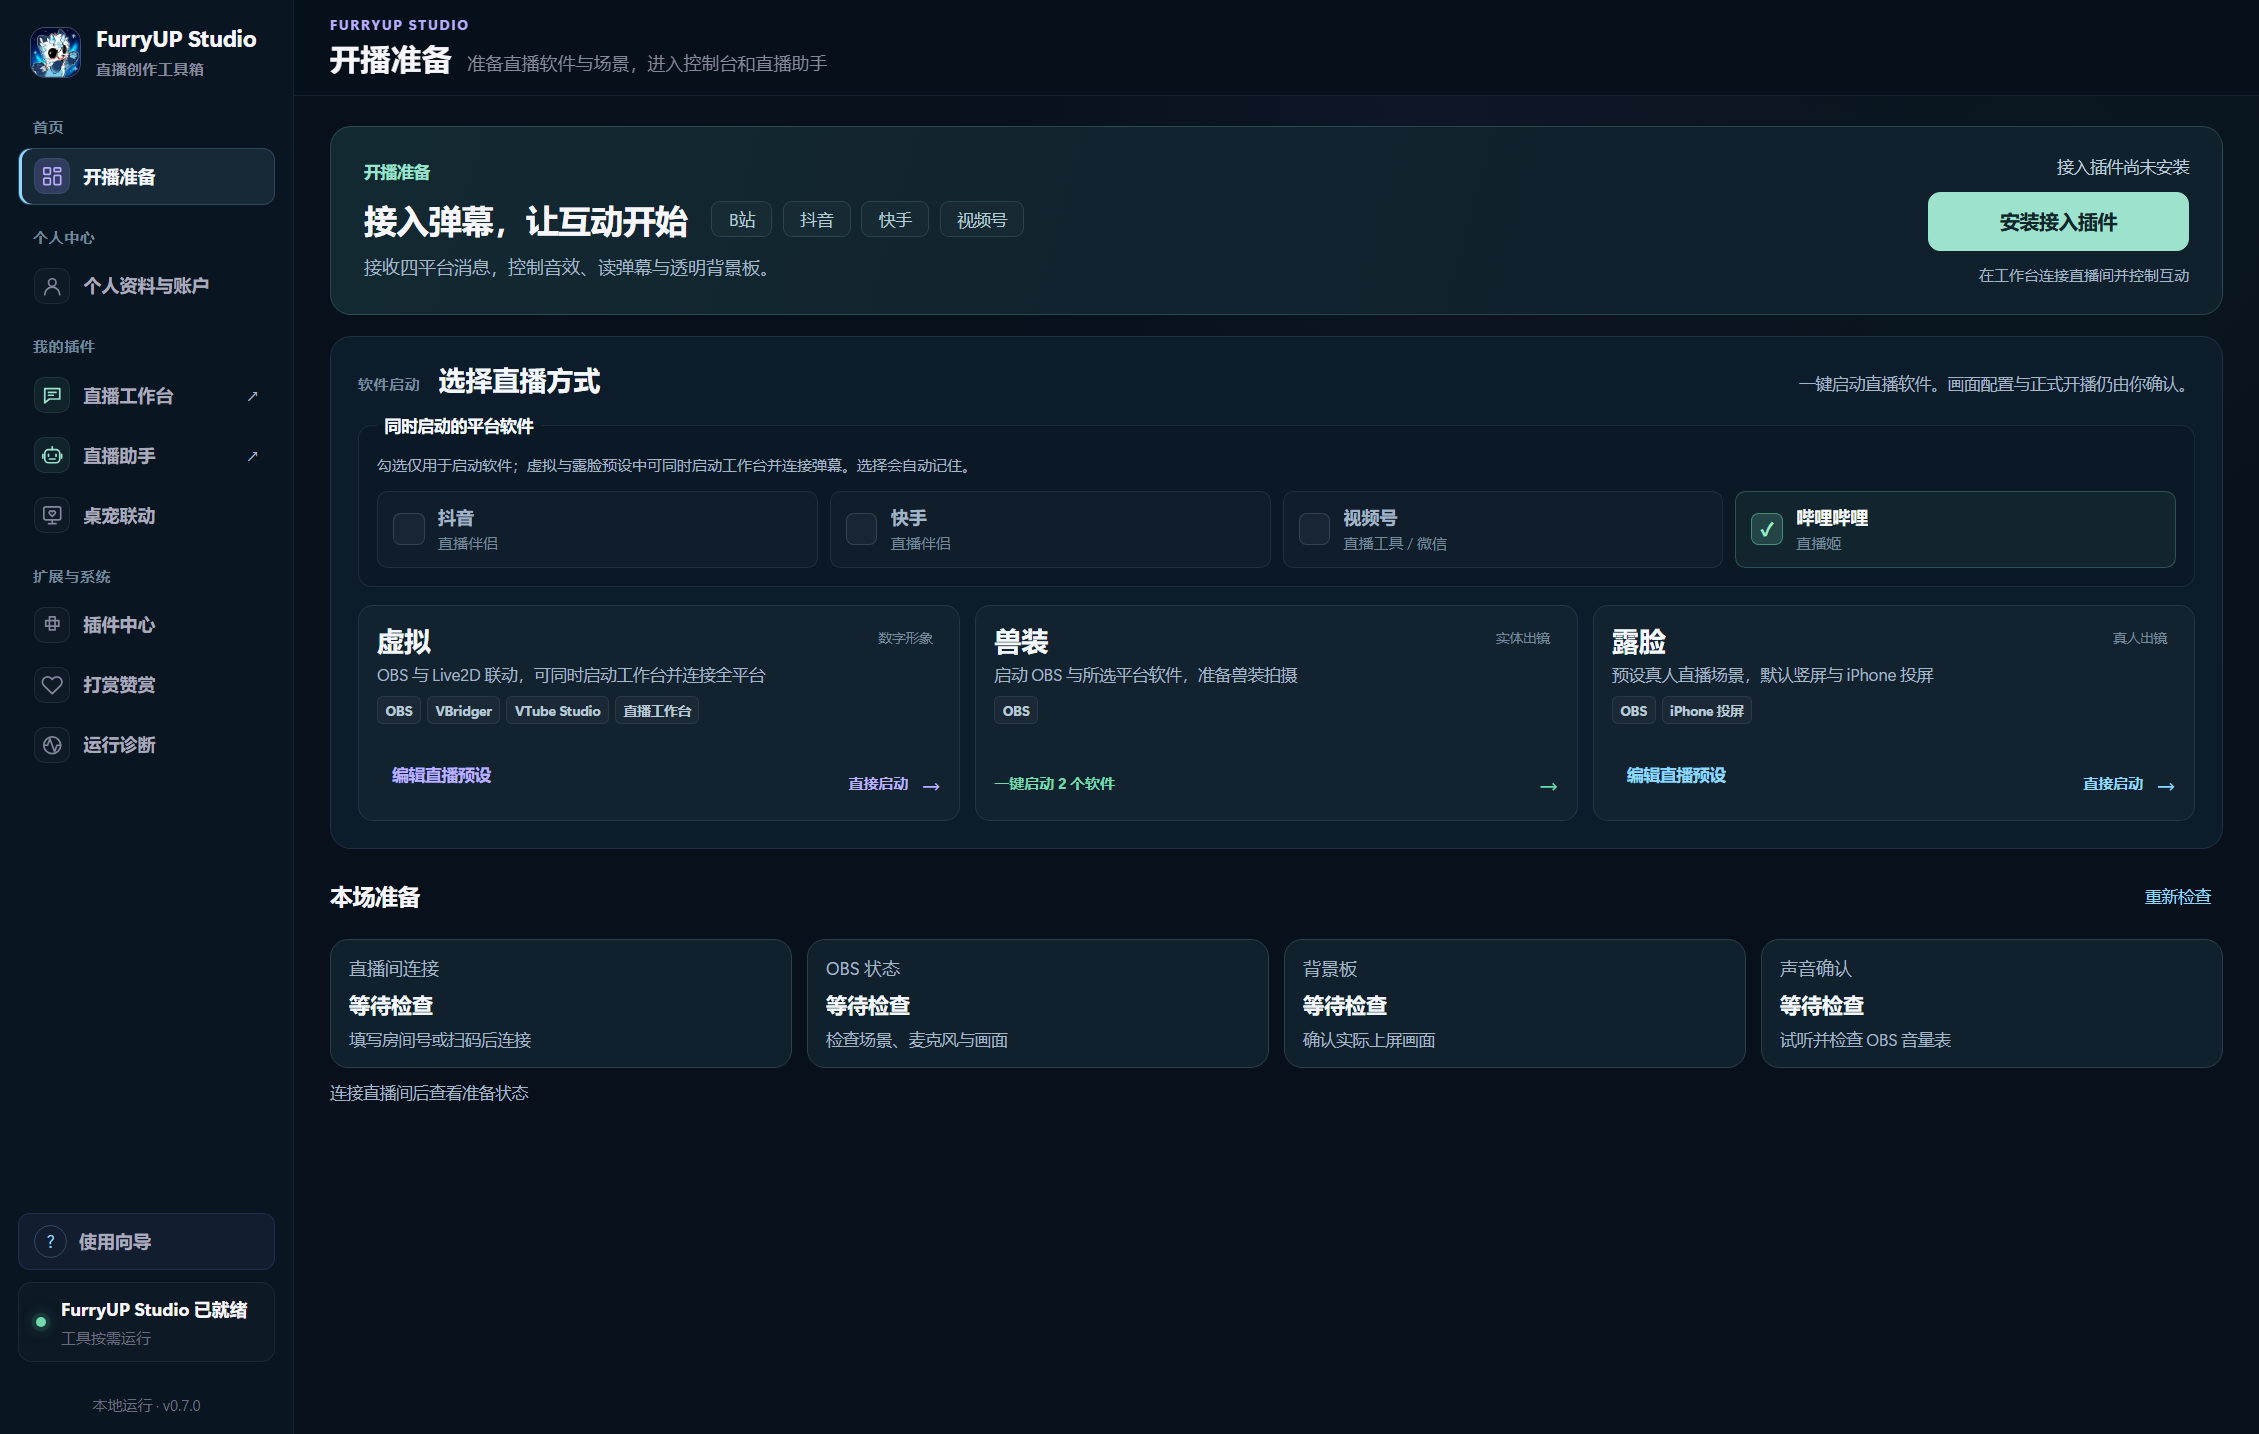
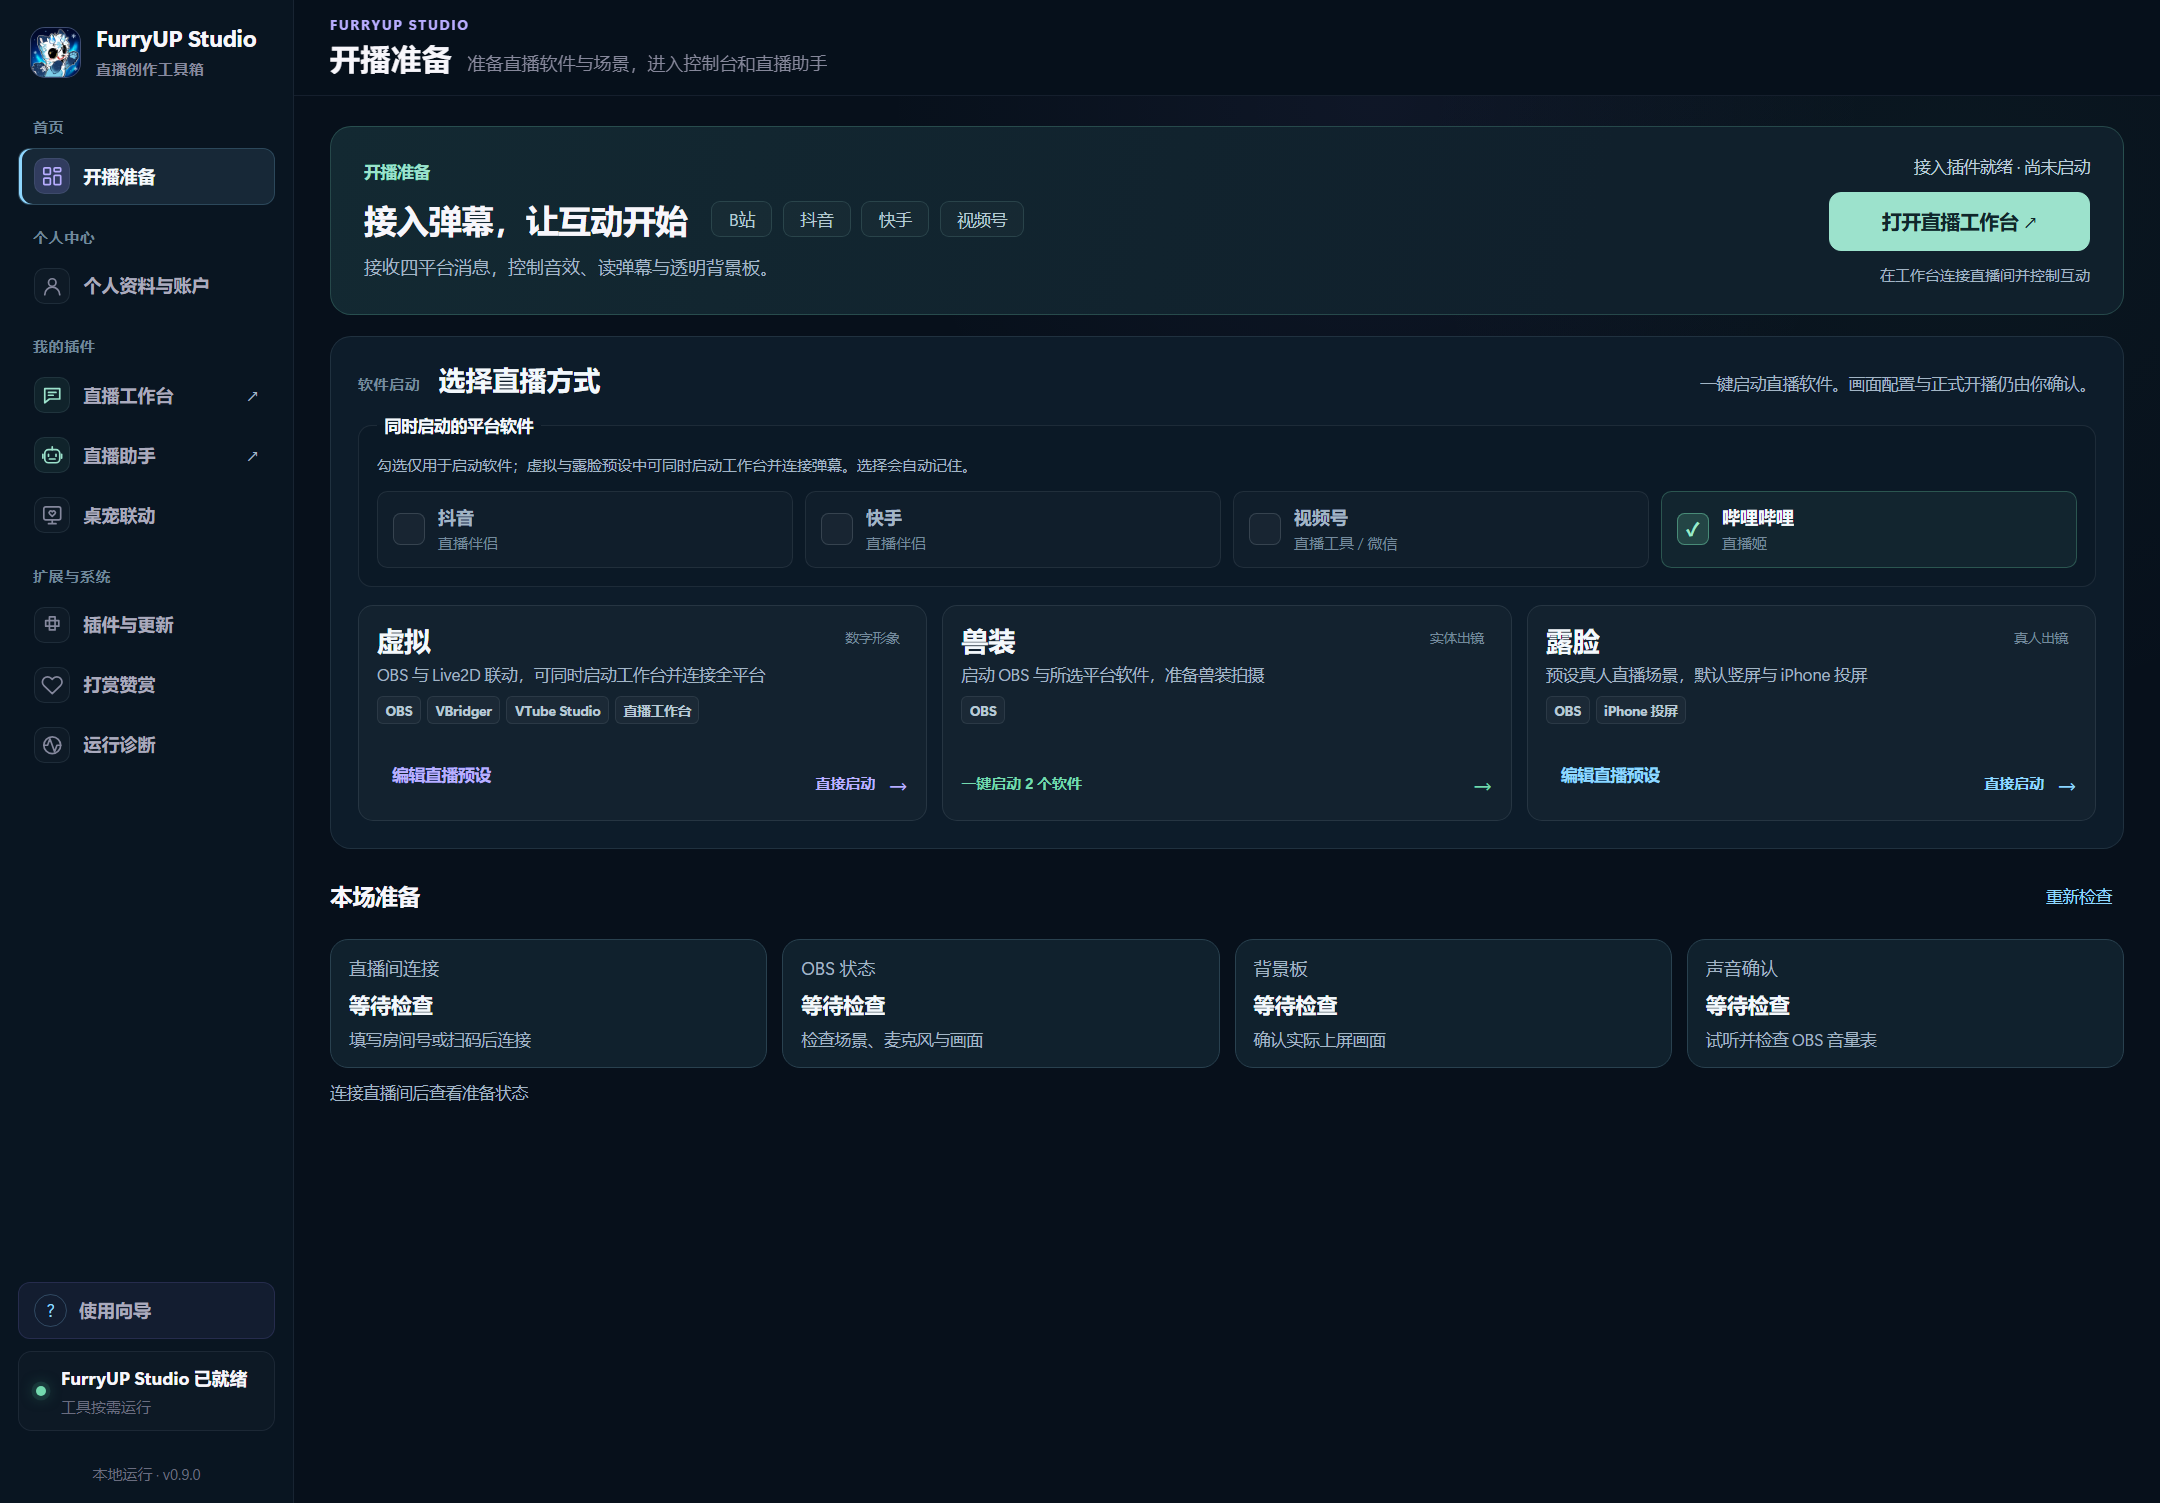
docs: publish FurryUP Studio 0.9.0 updates and current screenshots

diff --git a/CHANGELOG.md b/CHANGELOG.md
@@ -4,6 +4,22 @@
 
 这里记录面向使用者的重要变化。历史条目依据版本说明和构建记录整理，部分版本曾作为本地验收或内测候选；并非每个版本都曾提供公开安装包。历史功能范围不代表当前全部开放，下载请以本仓库 Releases 为准。
 
+## 0.9.0 · 2026-10-18
+
+**插件与更新、一键更新与中英文界面**
+
+- “插件中心”改为“插件与更新”，重新整理页面，将更新总览与主程序更新放在顶部，保留独立插件管理。
+- 新增“检查全部更新”，集中检查主程序及已安装插件的可用版本。
+- 新增“一键更新全部”，依次更新已有插件，再下载并校验主程序更新；未安装插件不会自动安装，已停用插件保持停用。
+- 展示各项更新进度、成功结果和失败原因；个别插件失败后继续处理其余项目，已完成更新保留，可查看原因后重试。
+- 主程序安装包准备好后，由主播点击“退出并安装”完成升级；继续检查 OBS Studio 是否正在直播或录制。
+- 加入简体中文与 English 界面切换，语言选择同步到已打开的界面并保存；用户输入与模型、角色名称保持原文。
+- “关于 FurryUP Studio”集中展示主程序和已安装插件版本。
+- 保留主程序 + 独立插件架构、四平台弹幕与礼物聚合、特定礼物规则、全局礼物特效、直播助手和桌宠联动。
+- 安装包、产品截图和公开说明同步更新，使用纯数字版本 0.9.0。
+- 随包插件：直播工作台 0.5.1、直播助手 0.2.2、桌宠联动 0.5.1、iPhone 投屏预览 0.4.1。
+- 本包不包含 iPhone 投屏内部接收器；各平台连接和正式推流分别配置。
+
 ## 0.7.0 · 2026-10-16
 
 **个人中心、四平台互动与礼物特效**
